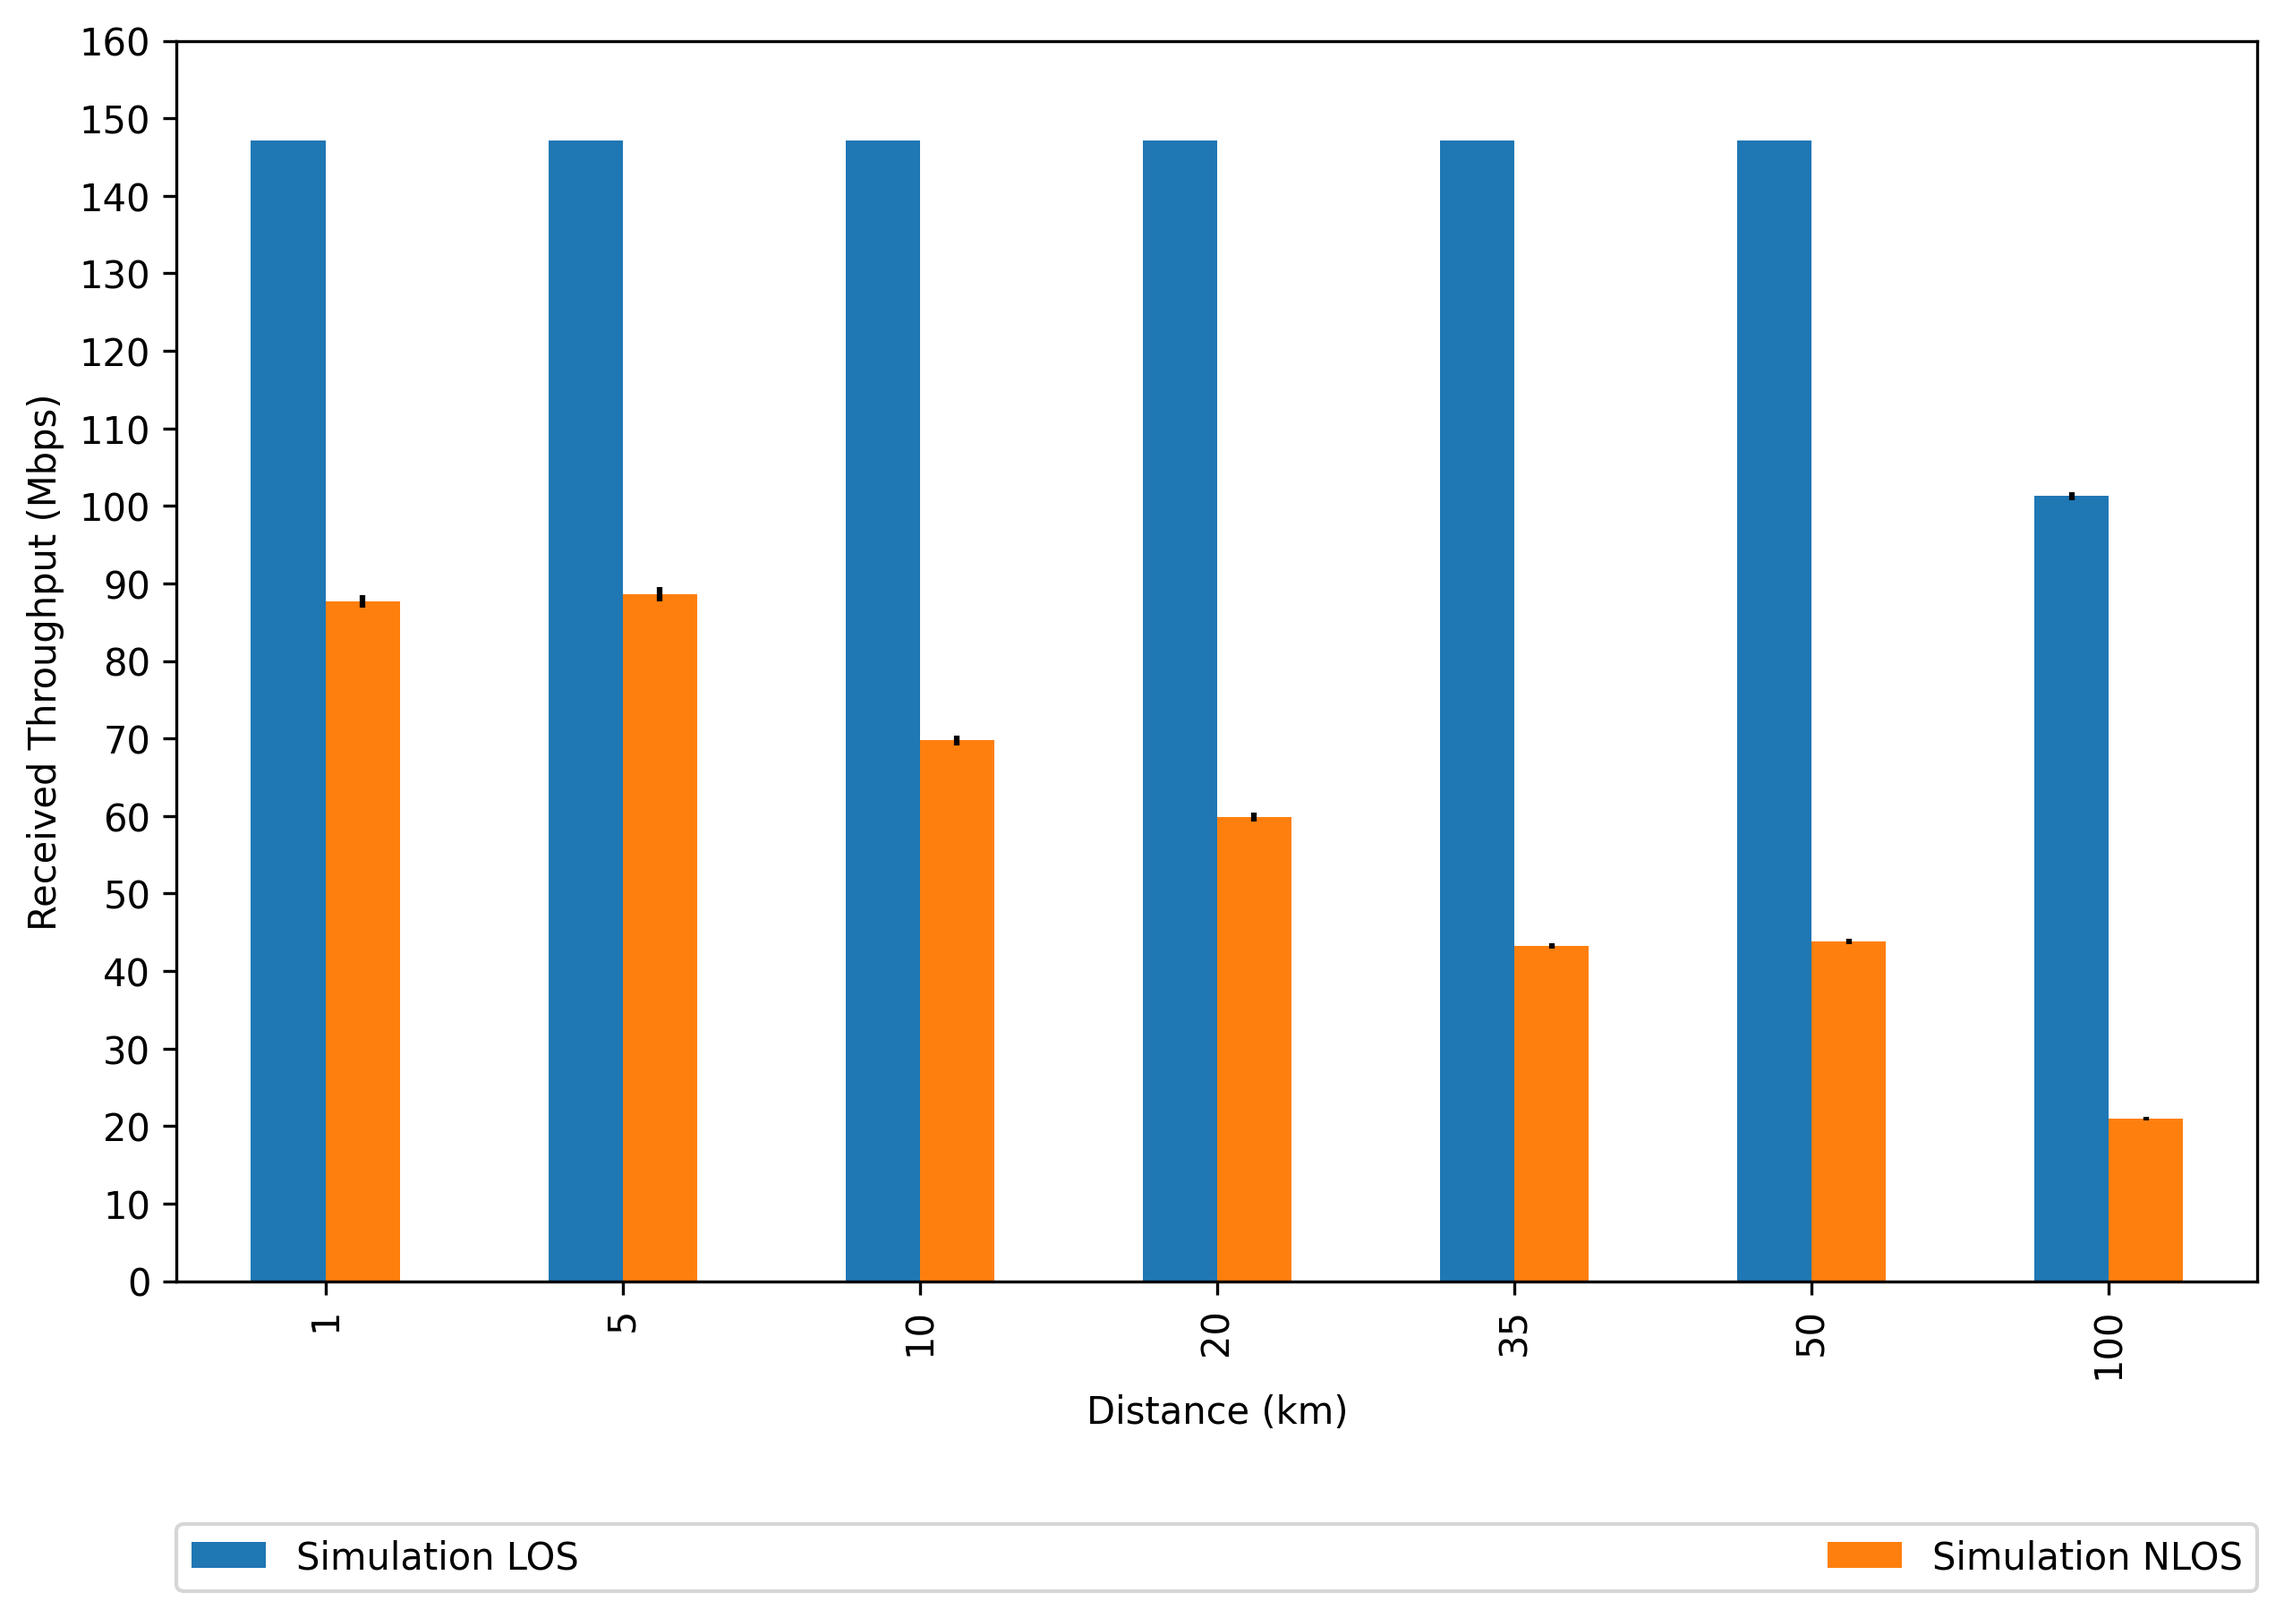
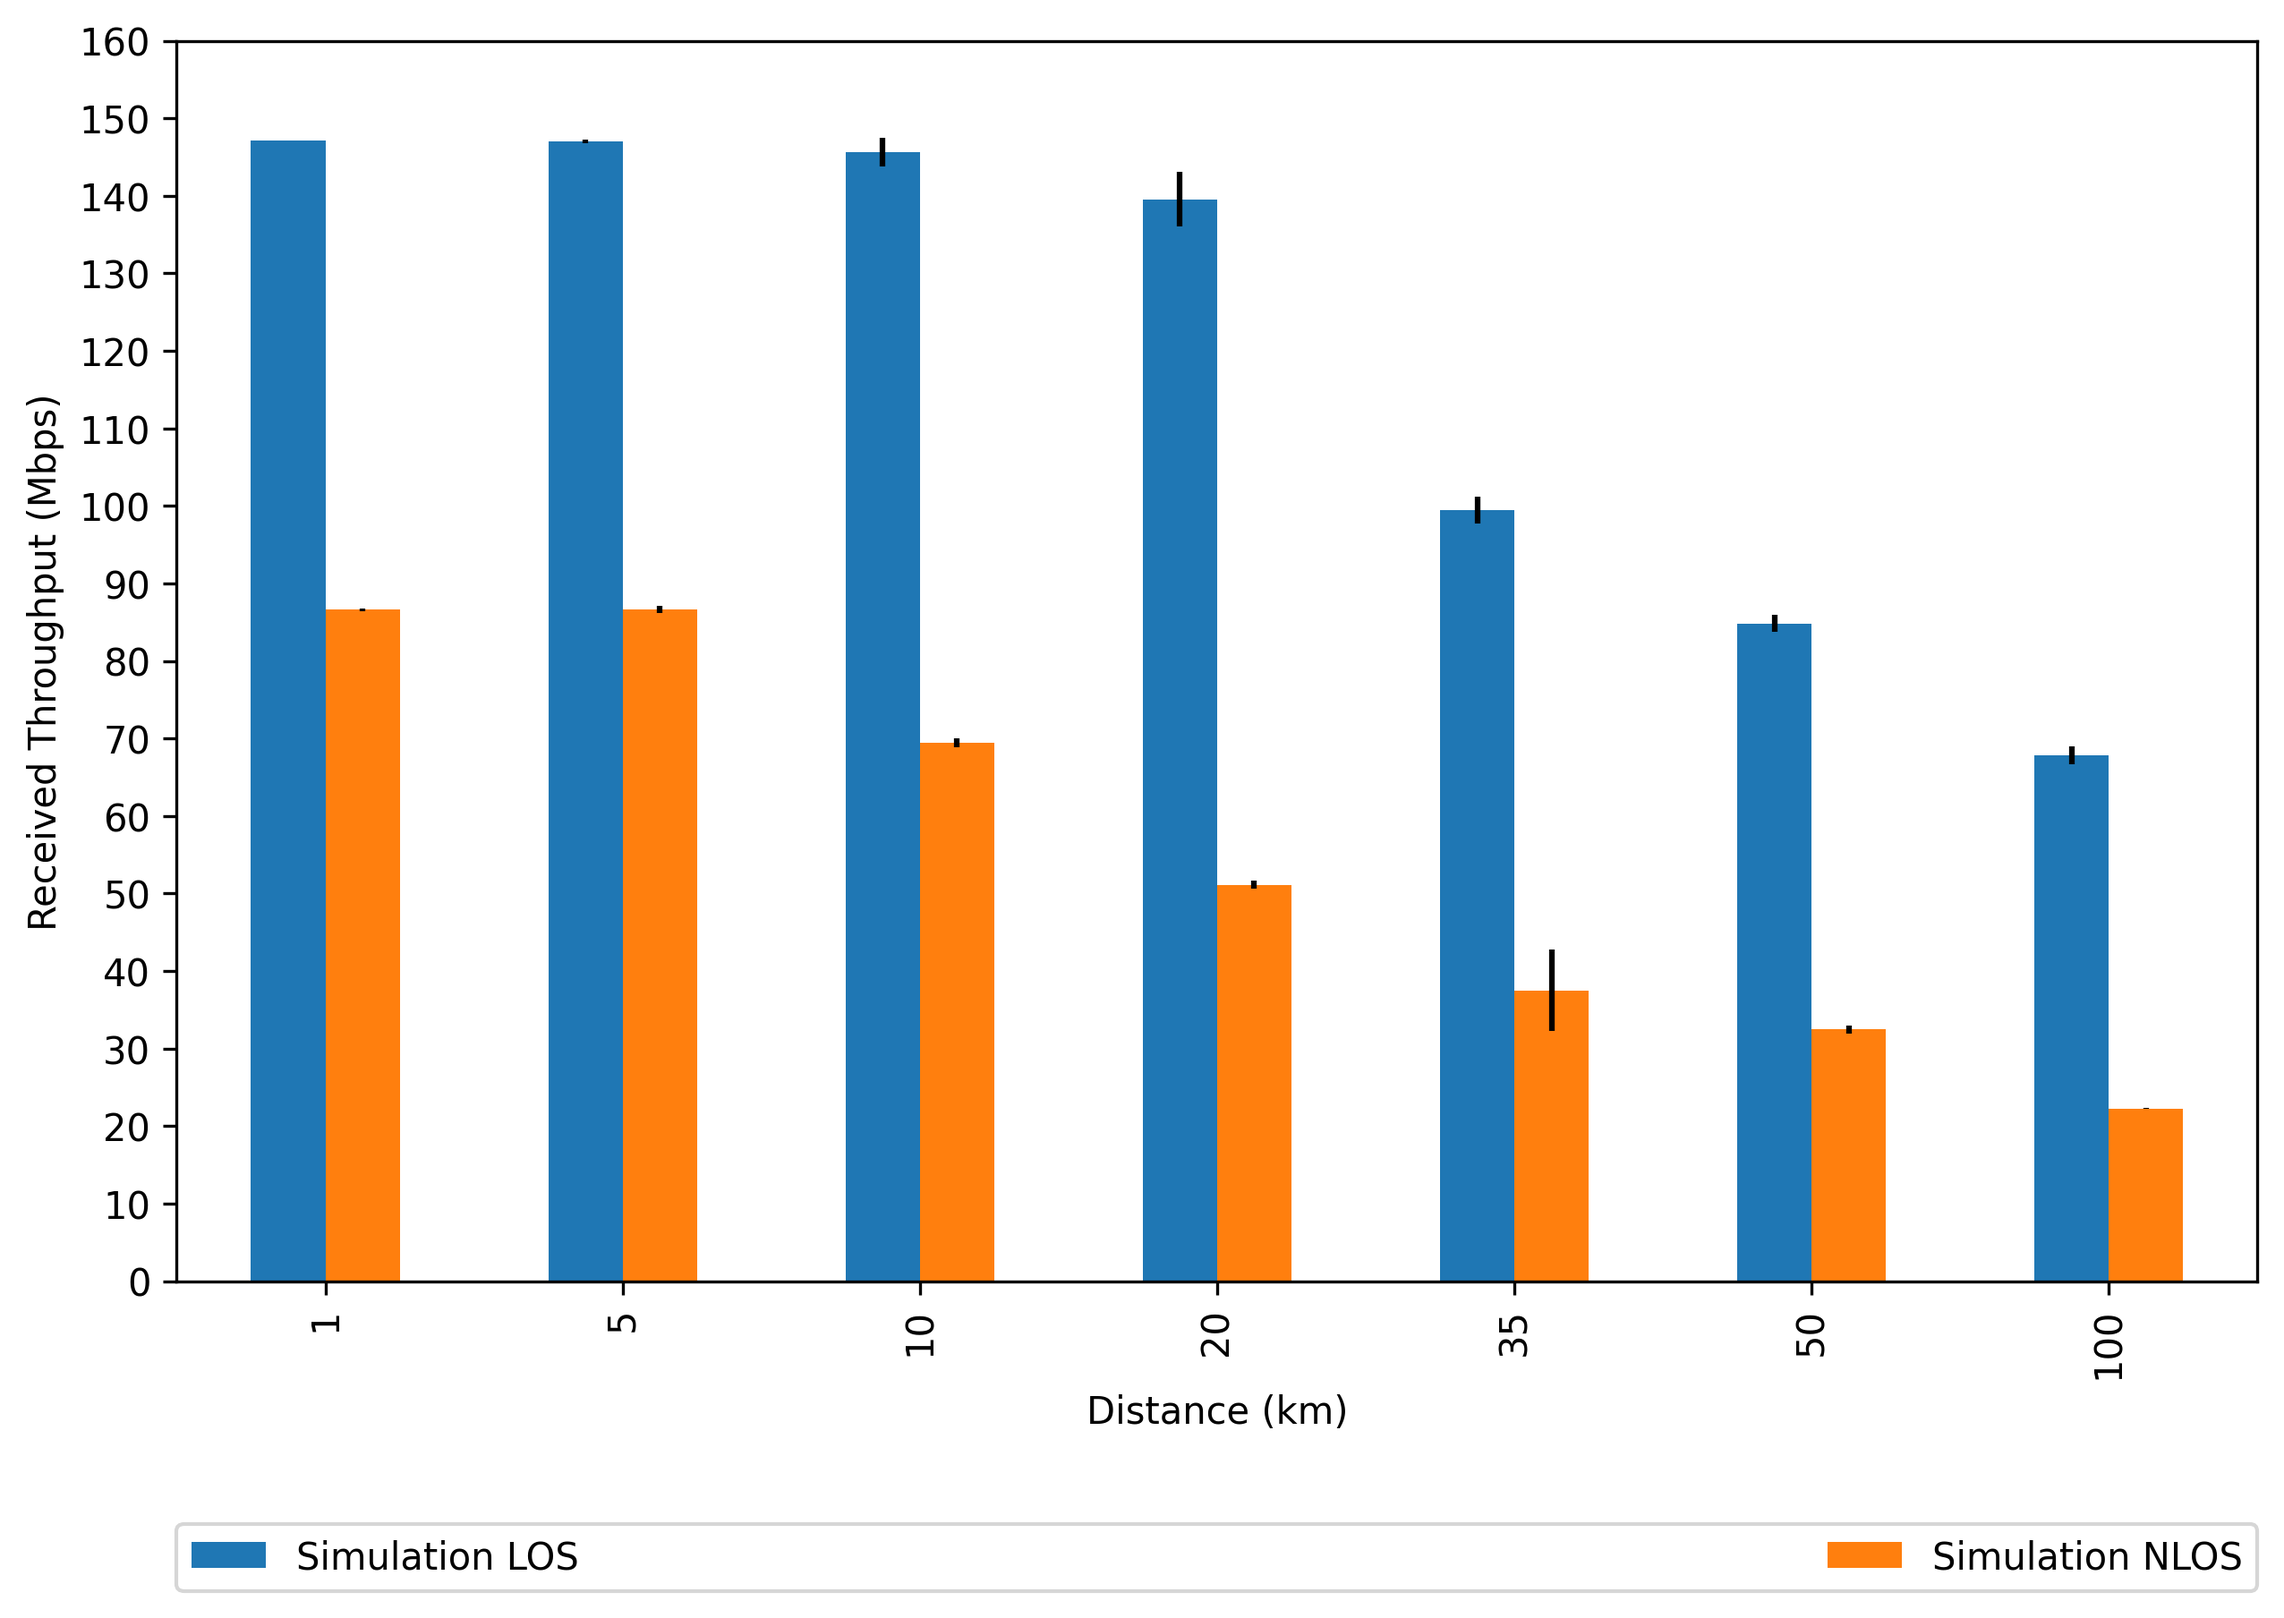
Plot MCS distribution for distances with both LOS and NLOS models

diff --git a/scratch/5grange_validation/bench_validation.py b/scratch/5grange_validation/bench_validation.py
@@ -287,16 +287,16 @@ fieldTrialResults = {"LOS": {
                     }
 
 if __name__ == "__main__":
+    mp.freeze_support()
     import numpy
     import pandas
-    mp.freeze_support()
     frequencyBands = (freqBands.MHz525, )  # (freqBands.MHz850, freqBands.MHz713, freqBands.MHz525, freqBands.MHz240)
     numAntennas = (2, )  # 1, 4
     mimoModes = (mimoModes.TxDiversity, )  # mimoModes.SISO, mimoModes.SpatialMultiplexing)
     channel_models = ("CDL_D", "CDL_A",)  # "RANGE5G",
     forcedMaxMcs = (False, )  # False, True,)
     distances = [ 1, 5, 10, 20, 35, 50, 100, ]  # 10, 20, 30, 40,
-    batches = 40
+    batches = 3
 
     thread_parameters = []
     # Create folders to dump simulation results
@@ -496,7 +496,7 @@ if __name__ == "__main__":
             error_dataset = OrderedDict({"THR": {},
                              "TBLER": {}
                              })
-            z_value = 2.0  # 1.96 for p=0.05 with #samples = infty, 2.0 for p=0.05 with #samples=40, 2.262 for p=0.05 with #samples=10
+            z_value = 4.303  # p=0.05 requires 1.96 with #samples=infty, 2.0 with #samples=40, 2.262 with #samples=10, 4.303 with #samples=3
             for lab in sorted(list(THR.keys())):
                 received_throughput_per_d = {}
                 received_throughput_per_d_error = {}
@@ -542,7 +542,7 @@ if __name__ == "__main__":
                 #axis5[0].bar(list(corrupted_freq_per_d.keys()), list(corrupted_freq_per_d.values()), yerr=list(corrupted_freq_per_d_error.values()), label=lab, color=randcolor())
                 lab = "%s Simulation" % lab[:5].replace('_', ' ')
 
-                fig, axis = plt.subplots(nrows=len(mcs_dist_per_d))
+                fig, axis = plt.subplots(nrows=len(mcs_dist_per_d), sharex=True, sharey=True, figsize=(5, 8))
                 if len(distances) == 1:
                     axis = [axis]
 
@@ -551,18 +551,21 @@ if __name__ == "__main__":
                     tripa = []
                     tripa_err = []
                     total_freq = 0
+                    temp = 0
                     for mcs in mcs_dist_per_d[d]:
                         total_freq += mcs_dist_per_d[d][mcs]
                     for mcs in mcs_dist_per_d[d]:
                         tripa.append(mcs_dist_per_d[d][mcs]/total_freq)
                         tripa_err.append(mcs_dist_per_d_error[d][mcs]/total_freq)
-                    axis[i].bar(x=list(range(0, 28)), height=tripa, yerr=tripa_err, label=lab)
-
+                    label = "%d km" % d
+                    axis[i].bar(x=list(range(1, 29)), height=tripa, yerr=tripa_err, label=label)
+                    axis[i].set_ylim((0, 1.01))
                     axis[i].set_xlim((0, 28))
-                    axis[i].set_xticks(list(range(0, 28)))
-                    axis[i].legend()
+                    if i == 3:
+                        axis[i].set_ylabel("Distribution of MCSs")
+                    axis[i].set_xticks(list(range(1, 29, 2)))
+                    axis[i].legend(loc='upper left')
                     i += 1
-
                 plt.xlabel("MCS")
                 plt.savefig("mcs_%s.png" % lab)
 

diff --git a/src/spectrum/model/cdl-spectrum-propagation-loss.cc b/src/spectrum/model/cdl-spectrum-propagation-loss.cc
@@ -122,22 +122,21 @@ CdlSpectrumPropagationLossModel::DoCalcRxPowerSpectralDensity (Ptr<const Spectru
 
   bool is_cdl_a = m_cdlType == CDL_A;
 
-  auto tupleKey = std::tuple<Ptr<const MobilityModel>, Ptr<const MobilityModel>>{a,b};
-  auto cdlInstance = cdlInstances.find(tupleKey);
-  if (cdlInstance == cdlInstances.end())
-  {
-      //If CDL instance for a given pair doesn't exist, create one
-      CdlCommon cdl_inst(is_cdl_a, ula_tx, ula_rx, d);
-      cdlInstances.emplace(tupleKey, cdl_inst);
-      cdlInstance = cdlInstances.find(tupleKey);
-  }
-
-  double path_loss = cdlInstance->second.get_tot_path_gain(d);
+  //auto tupleKey = std::tuple<Ptr<const MobilityModel>, Ptr<const MobilityModel>>{a,b};
+  //auto cdlInstance = cdlInstances.find(tupleKey);
+  //if (cdlInstance == cdlInstances.end())
+  //{
+  //    //If CDL instance for a given pair doesn't exist, create one
+  //    CdlCommon cdl_inst(is_cdl_a, ula_tx, ula_rx, d);
+  //    cdlInstances.emplace(tupleKey, cdl_inst);
+  //    cdlInstance = cdlInstances.find(tupleKey);
+  //}
+  CdlCommon cdlInstance = CdlCommon(is_cdl_a, ula_tx, ula_rx, d);
 
   //rxPsd =
   //*(rxPsd) *= path_loss;
 
-  std::vector<double> losses = cdlInstance->second.get_channel_fr_5g (Simulator::Now().GetSeconds(), rxPsd);
+  std::vector<double> losses = cdlInstance.get_channel_fr_5g (Simulator::Now().GetSeconds(), rxPsd);
 
   vit = rxPsd->ValuesBegin ();
   size_t i = 0;
